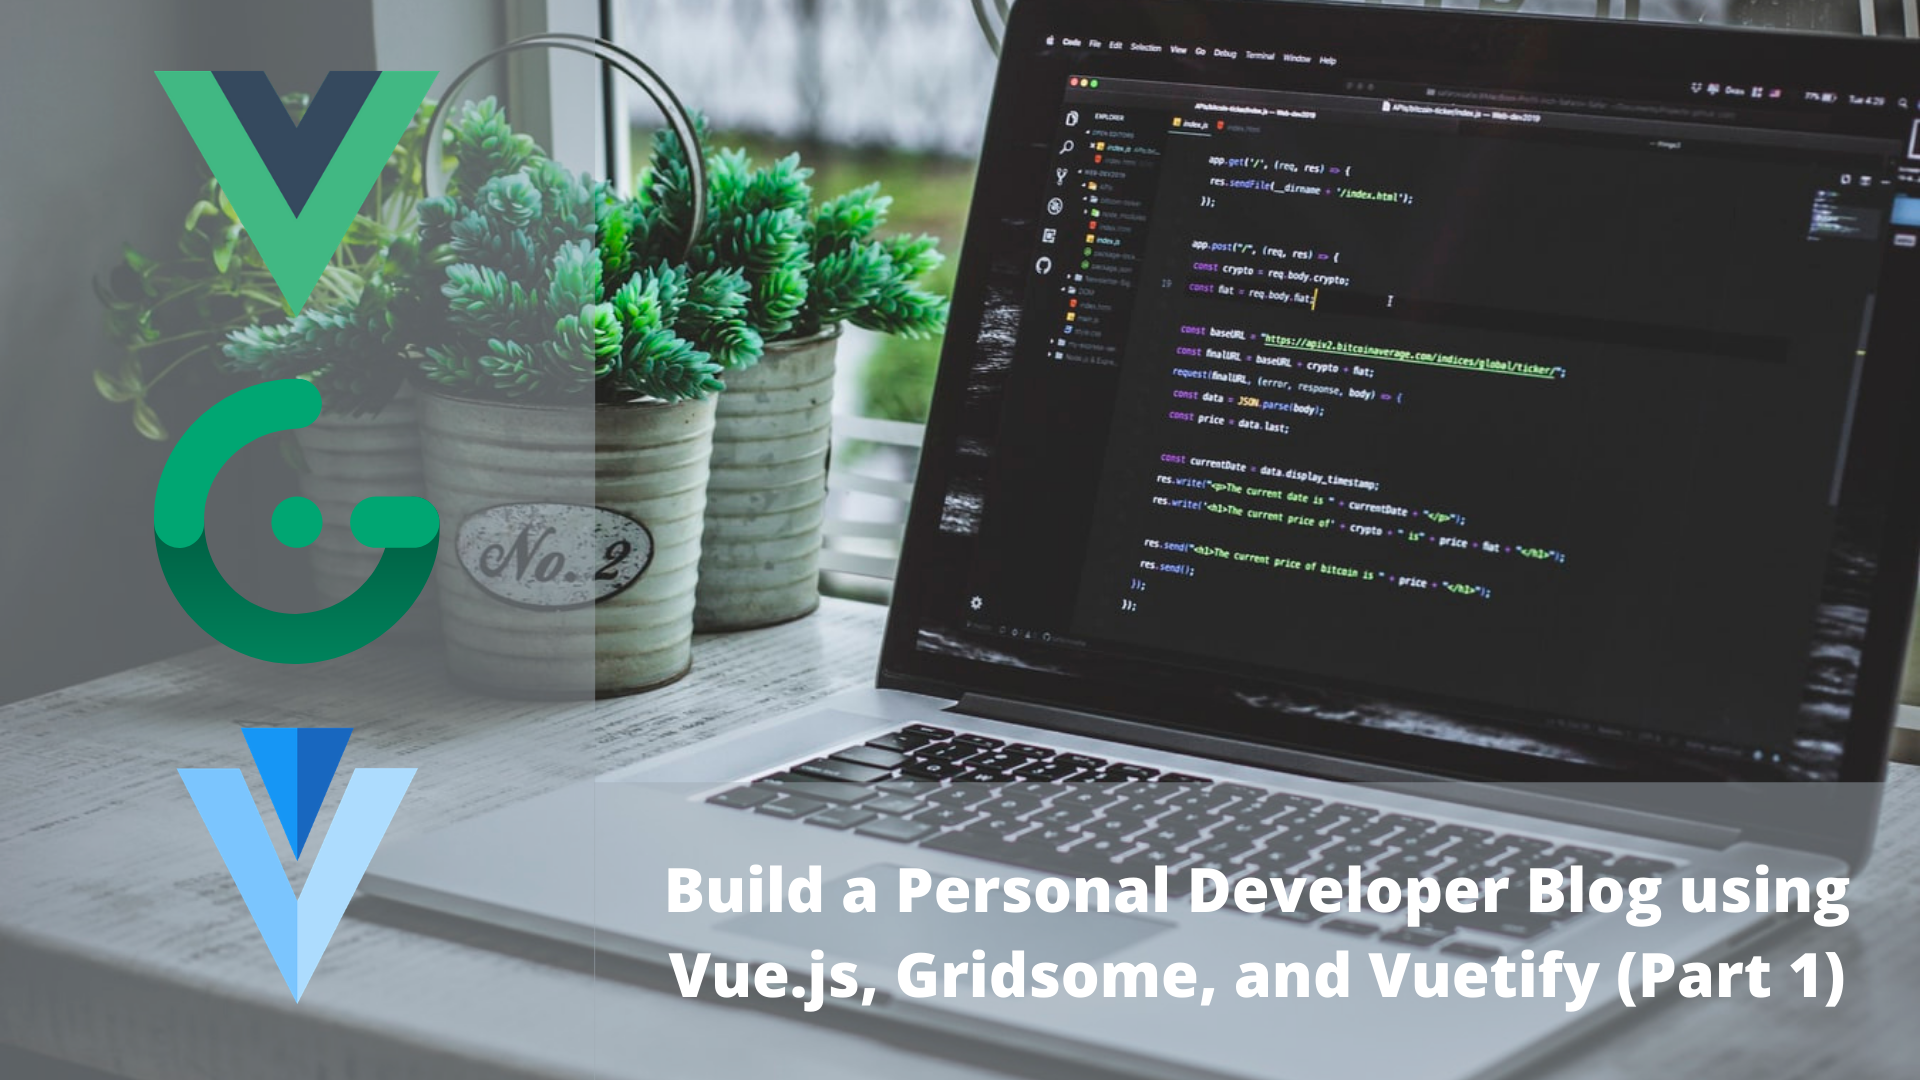
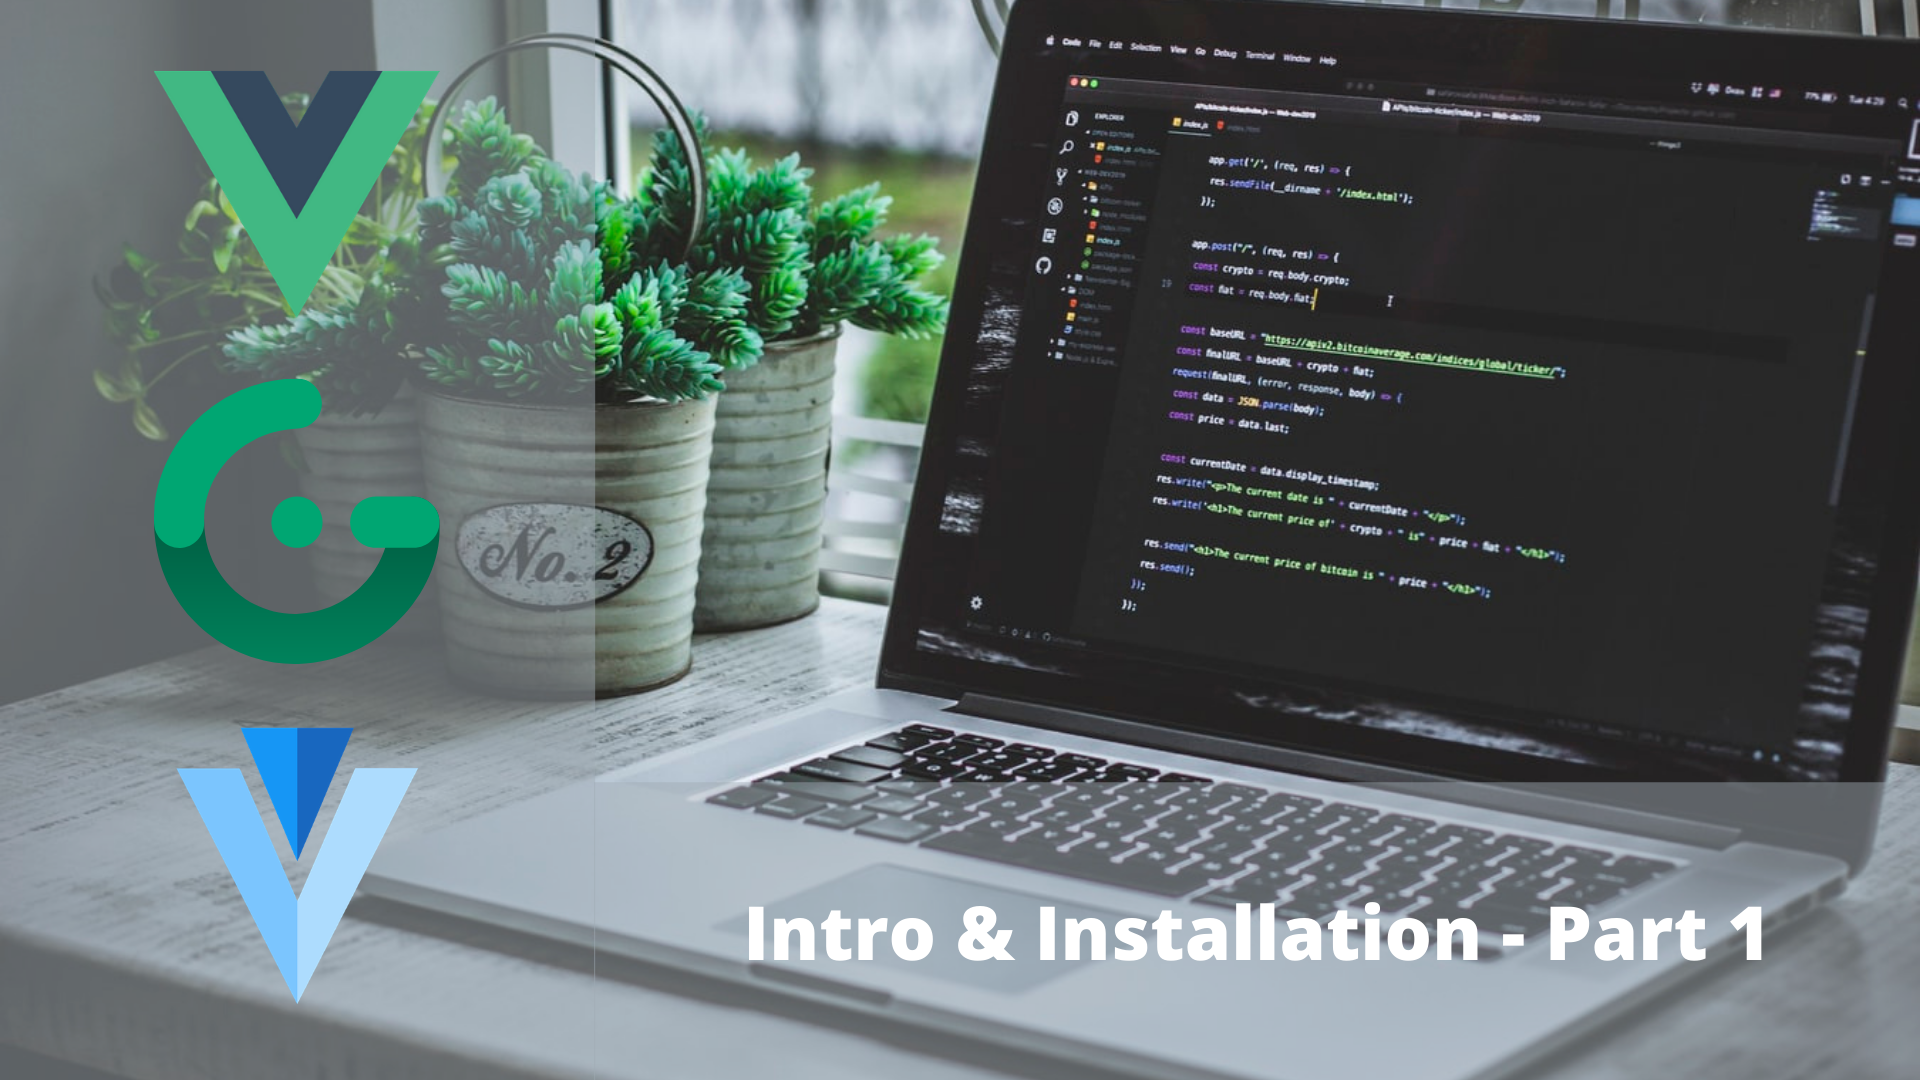
Changed images of gridsome blog series to be more concise

Changed region(s): [[0.3438, 0.7944, 0.9688, 0.9472]]

diff --git a/content/blog/gridsome-blog-series/gridsome-blog-tutorial-p6.md b/content/blog/gridsome-blog-series/gridsome-blog-tutorial-p6.md
@@ -1,0 +1,10 @@
+---
+title: How to build a personal developer blog with Vue.js, Gridsome and Vuetify (Part 6)
+category: Coding
+excerpt: In part 6 of the Gridsome blog series, we'll start to build out the blog page and template and style them with CSS accordingly.
+created: 2020-10-15
+keywords: 'HTML,CSS,JavaScript,JSON,Vue,Gridsome,Vuetify,GraphQL,Netlify'
+image: ../images/gridsome-tut/gridsome-blog-tutorial-p6.png
+image_caption: Photo by Josh Arrants
+author: author1
+---
